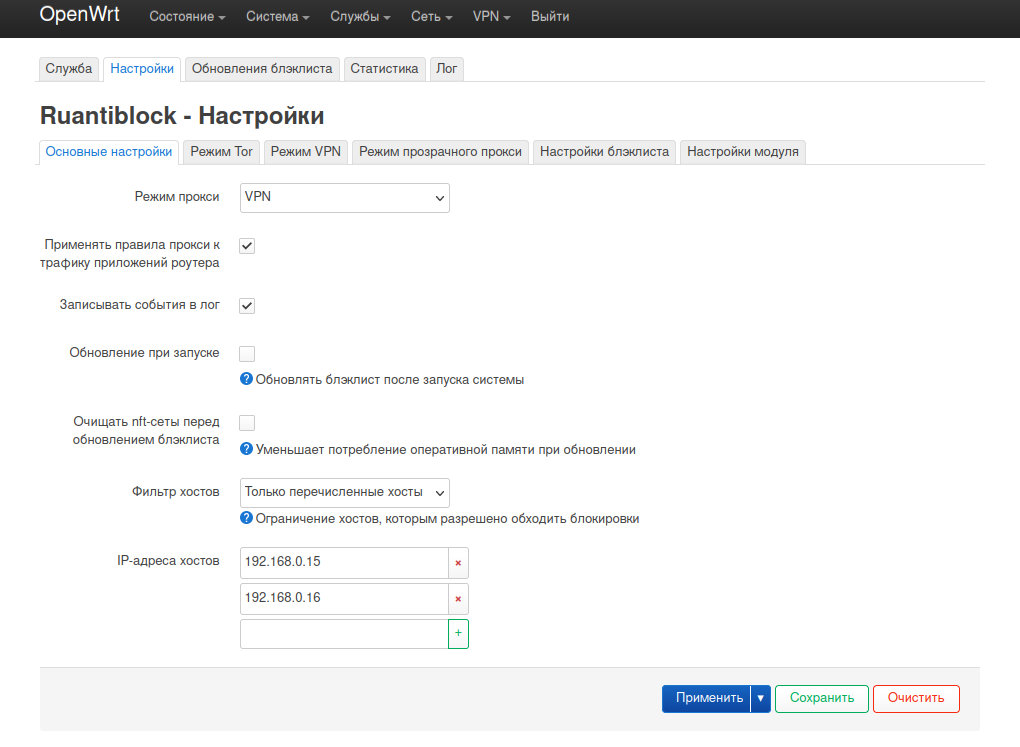
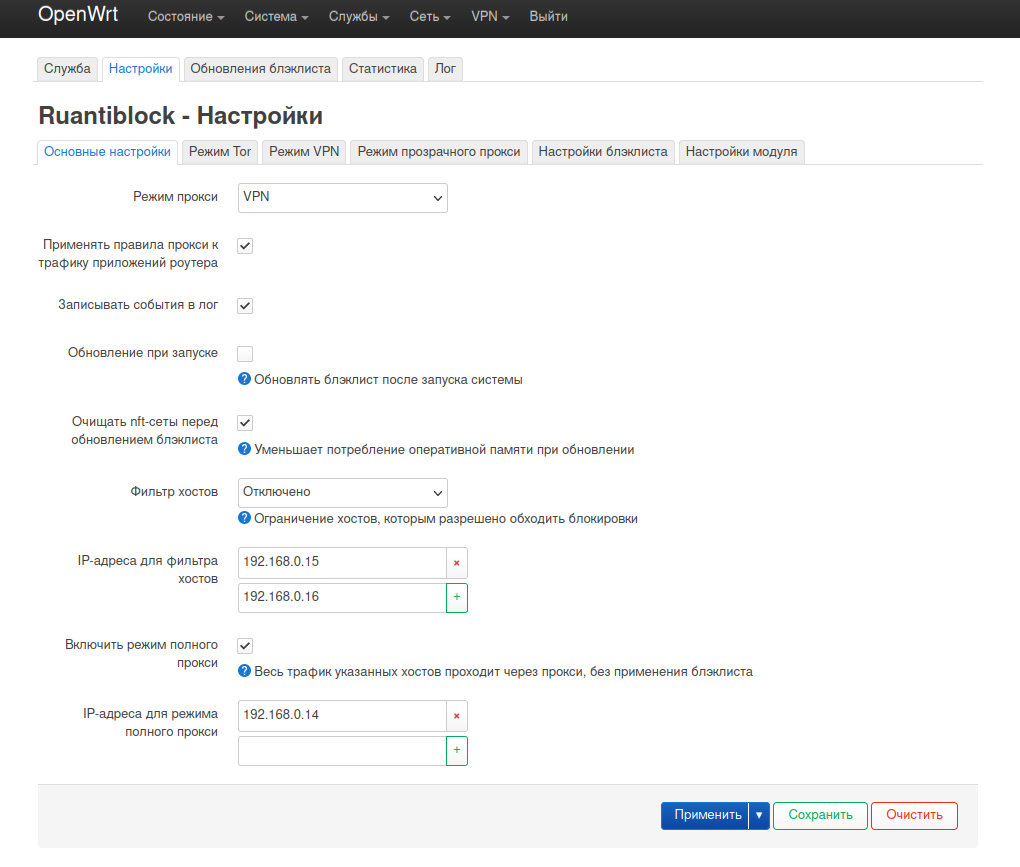
v1.3. New options: full proxy mode, downloading blacklist through proxy.

diff --git a/luci-app-ruantiblock/htdocs/luci-static/resources/view/ruantiblock/settings.js b/luci-app-ruantiblock/htdocs/luci-static/resources/view/ruantiblock/settings.js
@@ -162,7 +162,18 @@ return view.extend({
 
 		// ALLOWED_HOSTS_LIST
 		o = s.taboption('main_settings', form.DynamicList, 'allowed_hosts_list',
-			_('IP addresses of hosts'));
+			_('IP addresses for host filter'));
+		o.datatype = "ip4addr";
+
+		// ENABLE_FPROXY
+		o = s.taboption('main_settings', form.Flag, 'enable_fproxy',
+			_('Enable full proxy mode'));
+		o.description = _('All traffic of the specified hosts passes through the proxy, without a blacklist');
+		o.rmempty = false;
+
+		// FPROXY_LIST
+		o = s.taboption('main_settings', form.DynamicList, 'fproxy_list',
+			_('IP addresses for full proxy mode'));
 		o.datatype = "ip4addr";
 
 
@@ -253,6 +264,13 @@ return view.extend({
 
 		Object.entries(this.parsers).forEach(
 			e => bllist_module.value(e[1], e[0]));
+
+		// ENABLE_BLLIST_PROXY
+		o = s.taboption('blacklist_tab', form.Flag, 'enable_bllist_proxy',
+			_('Downloading a blacklist via proxy'), _('Turn on if blacklist source is blocked'));
+		o.rmempty = false;
+		o.default = 0;
+		o.depends({ bllist_preset: '', '!reverse': true });
 
 		// ADD_USER_ENTRIES
 		o = s.taboption('blacklist_tab', form.Flag, 'add_user_entries',

diff --git a/luci-app-ruantiblock/htdocs/luci-static/resources/view/ruantiblock/info.js b/luci-app-ruantiblock/htdocs/luci-static/resources/view/ruantiblock/info.js
@@ -47,7 +47,6 @@ return view.extend({
 		if(data.rules.nftables && data.rules.nftables.length > 1) {
 			for(let i of data.rules.nftables) {
 				if(!i.rule) continue;
-
 				let set, bytes;
 				i.rule.expr.forEach(e => {
 					if(e.match && e.match.left && e.match.left.payload) {
@@ -287,7 +286,7 @@ return view.extend({
 									'class'     : 'td left',
 									'data-title': _('Match-set'),
 								}, set + ((set.length >= 1) ? (
-									' (' + set.replace(/^c/, 'CIDR').replace(/^i/, 'IP').replace(/^d/, 'dnsmasq').replace(/^bi/, 'bypass IP').replace(/^bd/, 'bypass dnsmasq') + ')'
+									' (' + set.replace(/^c/, 'CIDR').replace(/^i/, 'IP').replace(/^d/, 'dnsmasq').replace(/^bi/, 'bypass IP').replace(/^bd/, 'bypass dnsmasq').replace(/^fproxy/, 'full proxy') + ')'
 								) : '')),
 								E('td', {
 									'class'     : 'td left',
